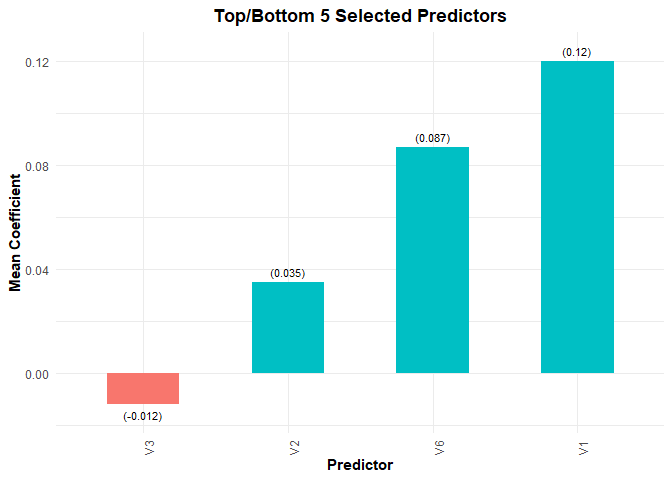
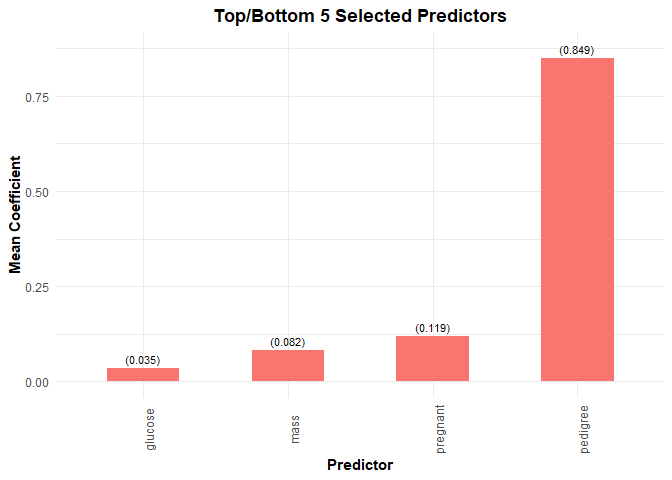
Update README resources

diff --git a/README.md b/README.md
@@ -26,7 +26,7 @@ devtools::install_github("dmolitor/bolasso")
 ## Variable selection with bolasso
 
 To illustrate the usage of bolasso, we’ll use the [Pima Indians Diabetes
-dataset](https://github.com/jbrownlee/Datasets/blob/master/pima-indians-diabetes.names)
+dataset](http://math.furman.edu/~dcs/courses/math47/R/library/mlbench/html/PimaIndiansDiabetes.html)
 to determine which factors are important predictors of testing positive
 for diabetes. For a full description of the input variables, see the
 link above.
@@ -37,10 +37,9 @@ link above.
 library(bolasso)
 library(readr)
 
-diabetes <- read_csv(
-  "https://raw.githubusercontent.com/jbrownlee/Datasets/master/pima-indians-diabetes.csv",
-  col_names = c(paste0("V", 1:8), "outcome")
-)
+data(PimaIndiansDiabetes, package = "mlbench")
+# Quick overview of the dataset
+str(PimaIndiansDiabetes)
 ```
 
 First, we run 100-fold bootstrapped Lasso with the `glmnet`
@@ -48,18 +47,17 @@ implementation. We can get a rough estimate of the elapsed time using
 `Sys.time()`.
 
 ``` r
-start.time <- Sys.time()
-
-model <- bolasso(
-  outcome ~ .,
-  data = diabetes,
-  n.boot = 100, 
-  implement = "glmnet",
-  family = "binomial"
-)
-
-Sys.time() - start.time
-#> Time difference of 29.13701 secs
+system.time({
+  model <- bolasso(
+    diabetes ~ .,
+    data = PimaIndiansDiabetes,
+    n.boot = 100, 
+    implement = "glmnet",
+    family = "binomial"
+  )
+})
+#>    user  system elapsed 
+#>   18.66    0.08   18.78
 ```
 
 We can get a quick overview of the model by printing the `bolasso`
@@ -92,24 +90,24 @@ selected_vars(model,
 #> # A tibble: 7 x 2
 #>   variable  mean_coef
 #>   <chr>         <dbl>
-#> 1 Intercept   -8.20  
-#> 2 V1           0.120 
-#> 3 V2           0.0347
-#> 4 V3          -0.0118
-#> 5 V6           0.0866
-#> 6 V7           0.849 
-#> 7 V8           0.0139
+#> 1 Intercept   -8.15  
+#> 2 pregnant     0.119 
+#> 3 glucose      0.0348
+#> 4 pressure    -0.0113
+#> 5 mass         0.0821
+#> 6 pedigree     0.849 
+#> 7 age          0.0138
 selected_vars(model,
               threshold = 1,
               select = "lambda.min")
 #> # A tibble: 5 x 2
 #>   variable  mean_coef
 #>   <chr>         <dbl>
-#> 1 Intercept   -8.20  
-#> 2 V1           0.120 
-#> 3 V2           0.0347
-#> 4 V3          -0.0118
-#> 5 V6           0.0866
+#> 1 Intercept   -8.15  
+#> 2 pregnant     0.119 
+#> 3 glucose      0.0348
+#> 4 mass         0.0821
+#> 5 pedigree     0.849
 ```
 
 ### Plotting selected variables
@@ -144,22 +142,21 @@ We can now run the code from above, unaltered, and it will execute in
 parallel.
 
 ``` r
-start.time <- Sys.time()
-
-model <- bolasso(
-  outcome ~ .,
-  data = diabetes,
-  n.boot = 100, 
-  implement = "glmnet",
-  family = "binomial"
-)
-
-Sys.time() - start.time
-#> Time difference of 13.5281 secs
+system.time({
+  model <- bolasso(
+    diabetes ~ .,
+    data = PimaIndiansDiabetes,
+    n.boot = 100, 
+    implement = "glmnet",
+    family = "binomial"
+  )
+})
+#>    user  system elapsed 
+#>    0.10    0.05    5.59
 ```
 
 ## References
 
-<a id="1">\[1\]</a> Bach, Francis. “Bolasso: Model Consistent Lasso
+<a id="1">\[1\]</a>Bach, Francis. “Bolasso: Model Consistent Lasso
 Estimation through the Bootstrap.” ArXiv:0804.1302 \[Cs, Math, Stat\],
 April 8, 2008. <http://arxiv.org/abs/0804.1302>.
